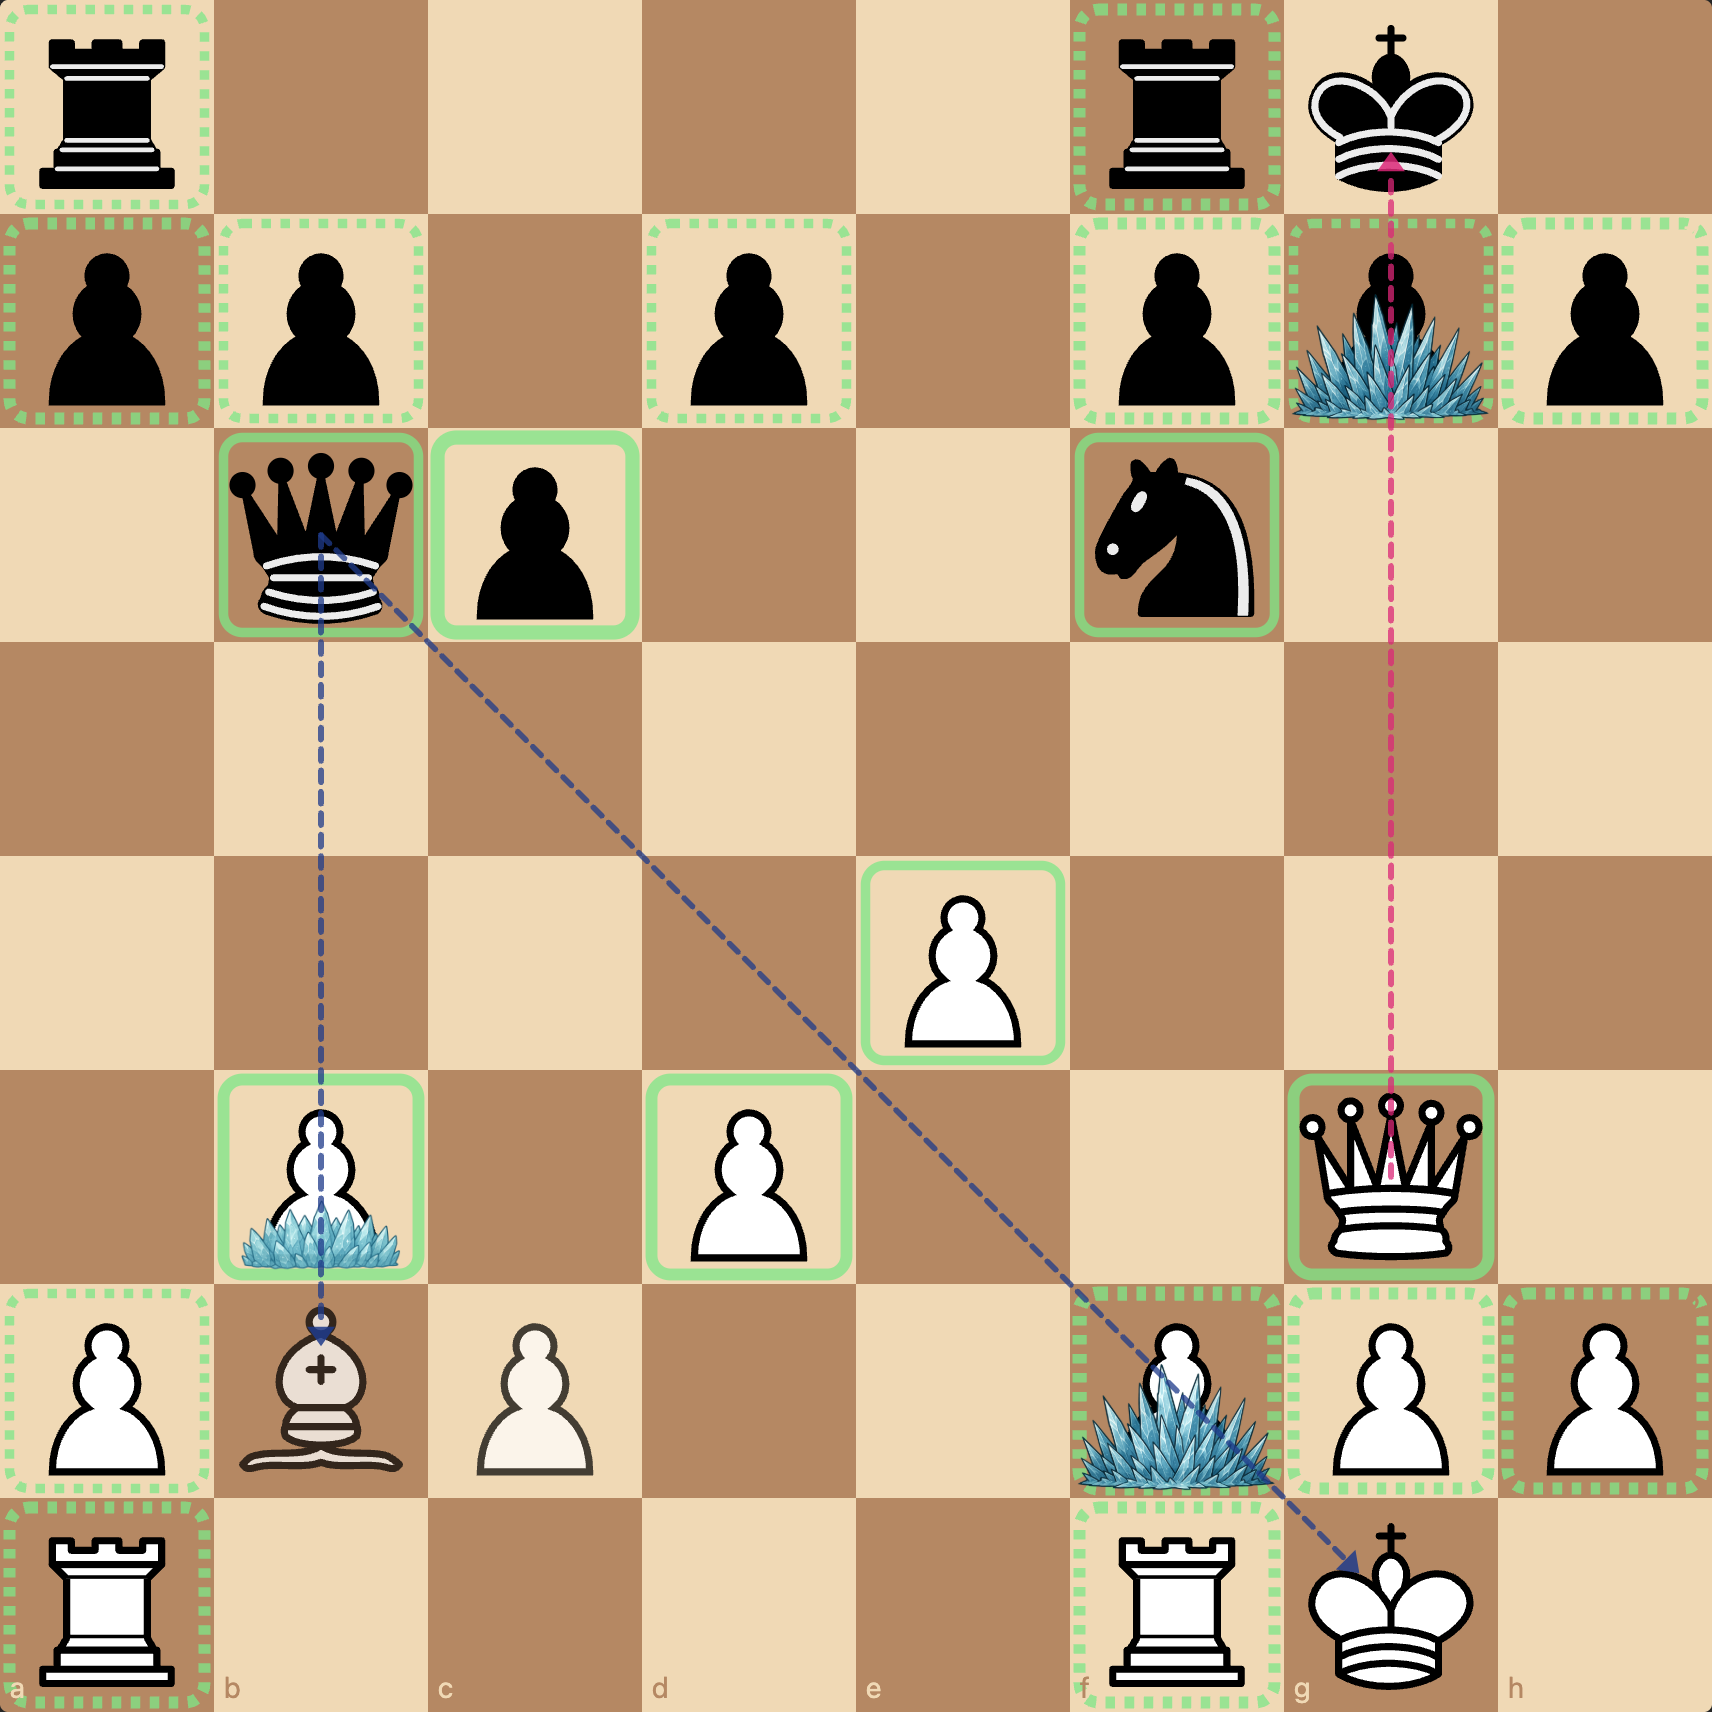
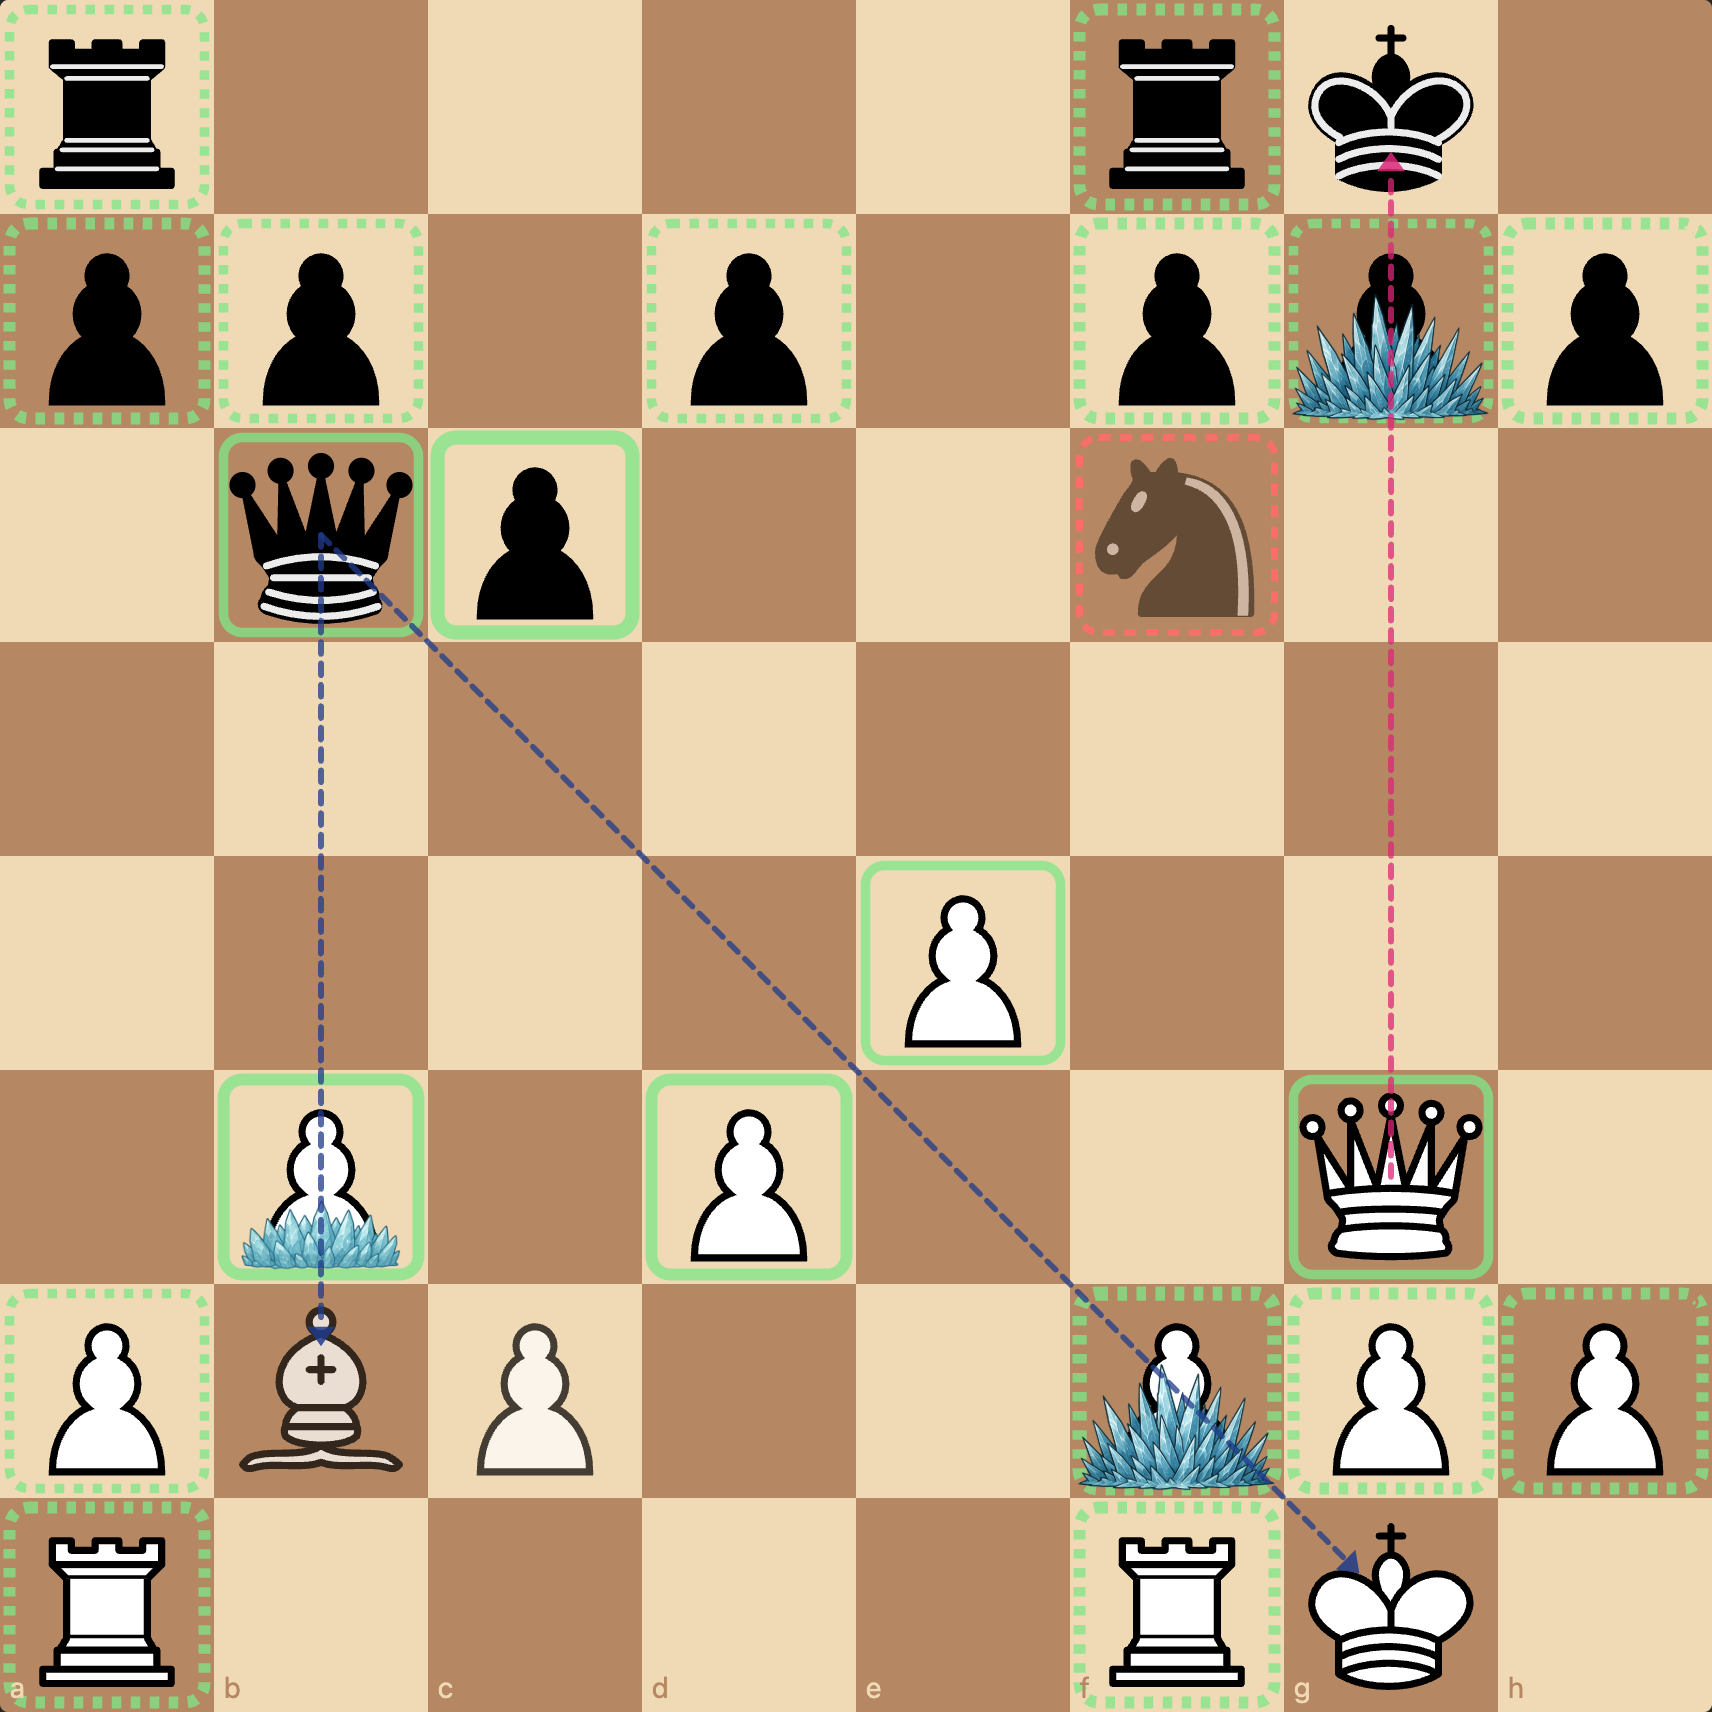
guards: pinned-defender filter; rename overlays to Pressure/Sight/Guards; captions in reddit_captions.md

Changed region(s): [[0.6192, 0.2477, 0.7739, 0.3715]]

diff --git a/js/viz3-pins.js b/js/viz3-pins.js
@@ -15,8 +15,19 @@ import { createBoardSVG, renderPieces, squareXY, SQ, el, group } from './board.j
 export function render(container, fen, controls) {
   const { board } = parseFEN(fen);
   const pins = computePins(board);
-  const { defenders } = computeDefendedMap(board);
+  const { defenders: rawDefenders } = computeDefendedMap(board);
   const ctrl = computeControl(board);
+
+  // A pinned defender can only move along its pin line. If the piece it is "defending" sits
+  // off that line, the defender cannot actually capture there without exposing its own king,
+  // so it is not a real defender. We filter those out before drawing rings.
+  const effectiveDefenders = rawDefenders.map((list, sq) =>
+    list.filter(defIdx => {
+      const pin = pins[defIdx];
+      if (!pin) return true;
+      return pin.pinLine.includes(sq);
+    })
+  );
 
   const { svg, layers } = createBoardSVG();
   container.replaceChildren(svg);
@@ -24,11 +35,11 @@ export function render(container, fen, controls) {
   // Protection rings, drawn under the pieces.
   // We split pawn defenders from piece defenders: pieces protected only by other pieces
   // (no pawn anchor) are deflectable. Render those with a dotted green ring instead of a solid
-  // one. The defender can be attacked / chased / pinned and the protected piece falls with it.
+  // one. The defender can be attacked, chased, or pinned and the protected piece falls with it.
   for (let i = 0; i < 64; i++) {
     const p = board[i];
     if (!p || p.piece === 'K') continue;
-    const friendly = defenders[i];
+    const friendly = effectiveDefenders[i];
     const friendlyCount = friendly.length;
     const enemy = ctrl[i][p.color === 'w' ? 'b' : 'w'].length;
     const isHanging = enemy > 0 && friendlyCount === 0;
@@ -56,7 +67,7 @@ export function render(container, fen, controls) {
   renderPieces(layers.pieces, board, {
     opacityFor: (i, p) => {
       if (p.piece === 'K') return 1;
-      const friendly = defenders[i].length;
+      const friendly = effectiveDefenders[i].length;
       const enemy = ctrl[i][p.color === 'w' ? 'b' : 'w'].length;
       // Undefended pieces look like ghosts; the red ring (added separately) tells us
       // whether they're also under attack. Two opacity levels so the difference between
@@ -144,7 +155,7 @@ function drawPinLine(layer, pin, board) {
 }
 
 export const DEFAULTS = { showPinLine: true };
-export const NAME = 'Pins & protection';
+export const NAME = 'Guards';
 export function buildControls(root, state, onChange) {
   root.innerHTML = '';
   const label = document.createElement('label');

diff --git a/index.html b/index.html
@@ -14,11 +14,11 @@
     </header>
 
     <nav class="tabs" id="tabs">
-      <button class="tab active" data-viz="viz1">1 · Controlled space</button>
-      <button class="tab" data-viz="viz2">2 · Attack paths</button>
-      <button class="tab" data-viz="viz3">3 · Pins &amp; protection</button>
-      <button class="tab" data-viz="viz4">4 · Knight reach</button>
-      <button class="tab" data-viz="viz5">5 · Fork patterns</button>
+      <button class="tab active" data-viz="viz1">Pressure</button>
+      <button class="tab" data-viz="viz2">Sight</button>
+      <button class="tab" data-viz="viz3">Guards</button>
+      <button class="tab" data-viz="viz4">Knight reach</button>
+      <button class="tab" data-viz="viz5">Fork patterns</button>
     </nav>
 
     <div class="layout">

diff --git a/js/viz2-attacks.js b/js/viz2-attacks.js
@@ -142,7 +142,7 @@ function drawSlider(layer, board, from, color) {
 }
 
 export const DEFAULTS = { sideFilter: 'both', pieceFilter: 'all' };
-export const NAME = 'Attack paths';
+export const NAME = 'Sight';
 export function buildControls(root, state, onChange) {
   root.innerHTML = '';
   const sideLabel = document.createElement('label');

diff --git a/js/viz1-control.js b/js/viz1-control.js
@@ -83,7 +83,7 @@ function addCount(layer, x, y, n) {
 }
 
 export const DEFAULTS = { showCounts: true };
-export const NAME = 'Controlled space';
+export const NAME = 'Pressure';
 export function buildControls(root, state, onChange) {
   root.innerHTML = '';
   const label = document.createElement('label');

diff --git a/scripts/caption_reddit.py b/scripts/caption_reddit.py
@@ -1,16 +1,17 @@
 #!/usr/bin/env python3
 """Caption the chosen screenshots for the Reddit post.
 
-Reads from ../screenshots/ and writes captioned versions to ../reddit_images/.
-Each output has a title bar across the top, an optional subtitle band, and an
-optional FEN strip across the bottom so the post-reader can copy it into Lichess.
+Reads slide definitions from ../reddit_captions.md (gitignored, user editable). Each slide block
+is bounded by an `## filename.png` heading, followed by `- key: value` lines for metadata
+(`src`, `fen`, `title`), then a blank line, then the body text up to the next slide heading.
 
-The set lives in `IMAGES` below; tweak there to change order, titles, or FENs.
+Writes captioned PNGs to ../reddit_images/.
 """
 
 from __future__ import annotations
 
 import pathlib
+import re
 import sys
 from dataclasses import dataclass
 
@@ -19,6 +20,7 @@ from PIL import Image, ImageDraw, ImageFont
 HERE = pathlib.Path(__file__).resolve().parent
 SCREENS = HERE.parent / "screenshots"
 OUT = HERE.parent / "reddit_images"
+CAPTIONS = HERE.parent / "reddit_captions.md"
 OUT.mkdir(exist_ok=True)
 
 FONT_BOLD = "/System/Library/Fonts/Helvetica.ttc"
@@ -30,63 +32,60 @@ class Slide:
     out_name: str
     src: str
     title: str
-    subtitle: str
+    text: str
     fen: str | None = None
 
 
-# Order chosen for the post: lead with the most striking puzzle, alternate puzzle / basic
-# inside each overlay so the reader gets the "wow" first and the explainer second.
-IMAGES: list[Slide] = [
-    Slide(
-        "01-overlay3-pin-defender.png",
-        "viz3_13_pinned-defender-nf6-is-not-actually-prot.png",
-        "Overlay 3 · The pinned defender",
-        "Nf6 looks safe, it has a solid green ring (pawn-defended by g7). But g7 is iced: pinned to the king by Qg3. White plays Bxf6! — the pawn can't recapture because moving it would expose the king. The ice tells you the defender is fake.",
-        "r4rk1/pp1p1ppp/1qp2n2/8/4P3/1P1P2Q1/PBP2PPP/R4RK1 w - - 0 1",
-    ),
-    Slide(
-        "02-overlay3-pin-mate.png",
-        "viz3_14_pinned-pawn-mate-on-f6.png",
-        "Overlay 3 · Pin enables mate",
-        "Pf7 is iced (pinned to Kg8 by Bd5). Bf6 has the red ring (hanging on the long diagonal of Bb2). White plays Qxg6+ Kh8 (fxg6 is illegal because of the pin), then Bxf6# along the now-clear b2–h8 diagonal.",
-        "1r1n1rk1/ppq2p2/2b2bp1/2pB3p/2P4P/4P3/PBQ2PP1/1R3RK1 w - - 0 1",
-    ),
-    Slide(
-        "03-overlay3-deflection.png",
-        "viz3_11_deflection-re8-lifts-the-d-file-guard.png",
-        "Overlay 3 · Deflection (remove the defender)",
-        "Qd6 wears a dotted green ring: defended only by Rd8 (a piece, no pawn). White plays Re8+! and after Rxe8 the d-file is open, then Qxd6 wins the queen. Whenever you see a dotted ring on a valuable piece, look at the defender.",
-        "r2r2k1/p4pp1/1p1q3p/8/P7/7P/1P3PP1/R2QR1K1 w - - 0 1",
-    ),
-    Slide(
-        "04-overlay2-réti.png",
-        "viz2_12_r-ti-tartakower-the-d-file-battery.png",
-        "Overlay 2 · Discovered rook (Réti vs Tartakower, 1910)",
-        "White's rook on d1 attacks its own bishop on d2 (solid), then the dotted continuation walks all the way up to d8 through Qd3. The famous 9.Qd8+!! Kxd8 10.Bg5+ exposes the rook on d8.",
-        "rnb1kb1r/pp3ppp/2p5/4q3/4n3/3Q4/PPPB1PPP/2KR1BNR w kq - 0 9",
-    ),
-    Slide(
-        "05-overlay2-starting.png",
-        "viz2_0_starting-position.png",
-        "Overlay 2 · Attack paths · baseline",
-        "Pawns get thick stubs (chunky = pawn protection is strong). Sliders go solid to the first blocker then dotted to the board edge. Knights are intentionally not drawn (too noisy in the opening). Kings get tiny in-square spokes.",
-        "rnbqkbnr/pppppppp/8/8/8/8/PPPPPPPP/RNBQKBNR w KQkq - 0 1",
-    ),
-    Slide(
-        "06-overlay1-kid-wedge.png",
-        "viz1_2_king-s-indian-wedge.png",
-        "Overlay 1 · Space dominance",
-        "Each contested square is split proportionally. White's peach floods the bottom of the board (massive central pressure); black's blue dominates the top. The single light background is on purpose so the overlay does the talking.",
-        "r1bq1rk1/pp2ppbp/2np1np1/2pP4/2P1P3/2N2N2/PP3PPP/R1BQKB1R w KQ - 0 7",
-    ),
-    Slide(
-        "07-overlay1-italian.png",
-        "viz1_1_italian-early-middlegame.png",
-        "Overlay 1 · Controlled space · baseline",
-        "Central tension is the orange/blue mosaic in the middle. 4/0 = white has 4 attackers on the square and black has none, so the square is solid peach. 2/2 splits half/half.",
-        "r1bqkb1r/pppp1ppp/2n2n2/4p3/2B1P3/5N2/PPPP1PPP/RNBQ1RK1 b kq - 5 5",
-    ),
-]
+HEADING_RE = re.compile(r"^## +(\S+)\s*$")
+META_RE = re.compile(r"^-\s*(\w+)\s*:\s*(.+)$")
+
+
+def parse_captions(text: str) -> list[Slide]:
+    slides: list[Slide] = []
+    current: dict | None = None
+    body_lines: list[str] = []
+
+    def flush() -> None:
+        nonlocal current, body_lines
+        if current is None:
+            return
+        text_body = "\n".join(body_lines).strip()
+        slides.append(Slide(
+            out_name=current["filename"],
+            src=current.get("src", ""),
+            title=current.get("title", ""),
+            text=text_body,
+            fen=current.get("fen"),
+        ))
+        current = None
+        body_lines = []
+
+    in_body = False
+    for raw in text.splitlines():
+        line = raw.rstrip()
+        m = HEADING_RE.match(line)
+        if m:
+            flush()
+            current = {"filename": m.group(1)}
+            in_body = False
+            continue
+        if current is None:
+            continue
+        if not in_body:
+            m = META_RE.match(line)
+            if m:
+                current[m.group(1).lower()] = m.group(2).strip()
+                continue
+            if line.strip() == "":
+                in_body = True
+                continue
+            # Unexpected line in the metadata section; treat as body.
+            in_body = True
+            body_lines.append(line)
+            continue
+        body_lines.append(line)
+    flush()
+    return slides
 
 
 def load_font(path: str, size: int) -> ImageFont.FreeTypeFont:
@@ -118,8 +117,6 @@ def caption(slide: Slide) -> pathlib.Path:
     if not src_path.exists():
         raise FileNotFoundError(src_path)
     img = Image.open(src_path).convert("RGBA")
-    # Normalize every input to a consistent display width so the title bar / FEN strip
-    # use the same proportions regardless of which screenshot the input came from.
     TARGET_W = 1400
     scale = TARGET_W / img.width
     img = img.resize((TARGET_W, int(img.height * scale)), Image.LANCZOS)
@@ -127,16 +124,15 @@ def caption(slide: Slide) -> pathlib.Path:
 
     pad = 32
     title_font = load_font(FONT_BOLD, 40)
-    sub_font = load_font(FONT_BOLD, 24)
+    body_font = load_font(FONT_BOLD, 24)
     fen_font = load_font(FONT_MONO, 20)
     fen_label_font = load_font(FONT_BOLD, 20)
 
-    # Layout: title bar at the top (white), board in the middle, FEN strip at the bottom.
     draw_probe = ImageDraw.Draw(Image.new("RGBA", (10, 10)))
     title_height = title_font.getbbox(slide.title)[3] + pad
-    sub_lines = wrap(draw_probe, slide.subtitle, sub_font, w - 2 * pad)
-    sub_height = sum(sub_font.getbbox(ln)[3] + 6 for ln in sub_lines) + pad
-    top_band = pad + title_height + sub_height
+    body_lines = wrap(draw_probe, slide.text, body_font, w - 2 * pad)
+    body_height = sum(body_font.getbbox(ln)[3] + 6 for ln in body_lines) + pad
+    top_band = pad + title_height + body_height
 
     fen_strip = 0
     if slide.fen:
@@ -146,22 +142,15 @@ def caption(slide: Slide) -> pathlib.Path:
     canvas = Image.new("RGBA", (w, total_h), (255, 255, 255, 255))
     draw = ImageDraw.Draw(canvas)
 
-    # Title bar background
     draw.rectangle((0, 0, w, top_band), fill=(245, 240, 235, 255))
-
-    # Title
     draw.text((pad, pad), slide.title, fill=(40, 40, 40, 255), font=title_font)
-
-    # Subtitle (wrapped)
     y = pad + title_height
-    for line in sub_lines:
-        draw.text((pad, y), line, fill=(90, 90, 90, 255), font=sub_font)
-        y += sub_font.getbbox(line)[3] + 6
+    for line in body_lines:
+        draw.text((pad, y), line, fill=(90, 90, 90, 255), font=body_font)
+        y += body_font.getbbox(line)[3] + 6
 
-    # Board
     canvas.paste(img, (0, top_band), img)
 
-    # FEN strip
     if slide.fen:
         fy = top_band + img.height
         draw.rectangle((0, fy, w, total_h), fill=(245, 240, 235, 255))
@@ -174,8 +163,15 @@ def caption(slide: Slide) -> pathlib.Path:
 
 
 def main() -> int:
+    if not CAPTIONS.exists():
+        print(f"missing captions file: {CAPTIONS}", file=sys.stderr)
+        return 1
+    slides = parse_captions(CAPTIONS.read_text())
+    if not slides:
+        print(f"no slides parsed from {CAPTIONS}", file=sys.stderr)
+        return 1
     n = 0
-    for slide in IMAGES:
+    for slide in slides:
         try:
             path = caption(slide)
             kb = path.stat().st_size / 1024
